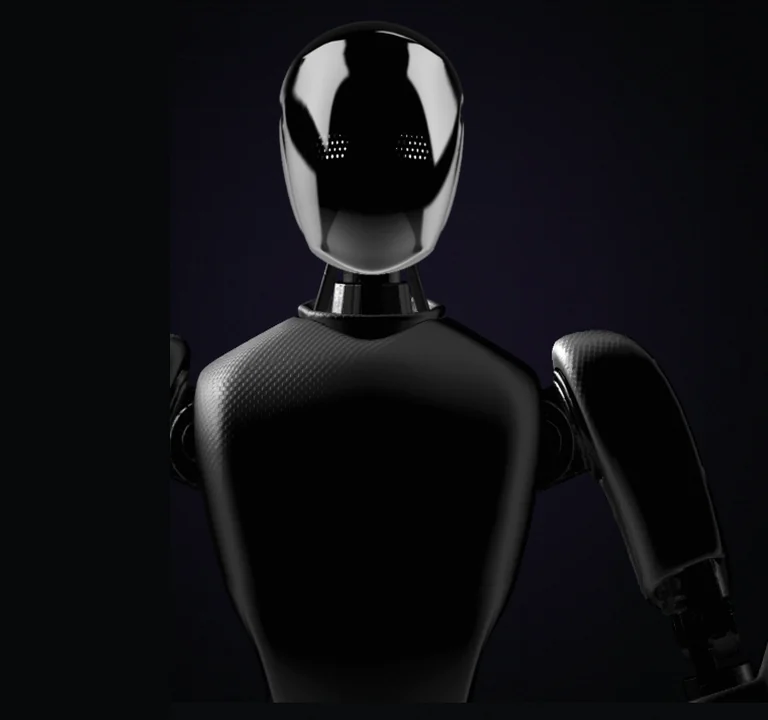
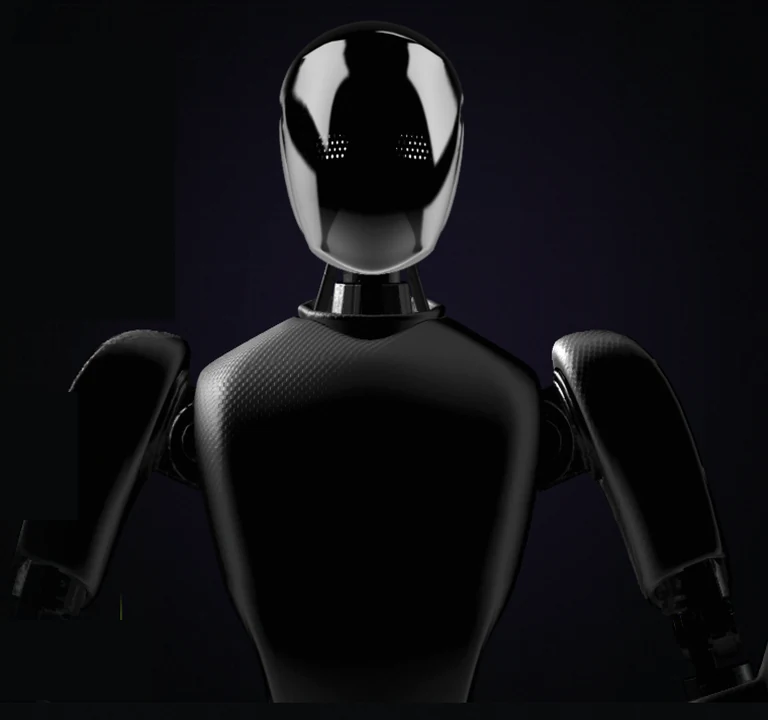
fix(hero): remove frozen poster handoff and preserve arm silhouette

diff --git a/src/three/HeroScene.tsx b/src/three/HeroScene.tsx
@@ -19,7 +19,8 @@ type SplineObjectLike = { uuid: string; name: string; position: Point; rotation:
 
 function getArmObjects(app: Application): SplineObjectLike[] {
   const runtime = app as unknown as { getAllObjects?: () => SplineObjectLike[] };
-  return (runtime.getAllObjects?.() ?? []).filter((object) => /^(arm|elbow|forearm|Hand|Hand LEFT|Hand Instance)$/i.test(object.name));
+  const objects = runtime.getAllObjects?.();
+  return (Array.isArray(objects) ? objects : []).filter((object) => /^(arm|elbow|forearm|Hand|Hand LEFT|Hand Instance)$/i.test(object.name));
 }
 
 function repairArmPose(app: Application, time: number, state: MotionState, baseRotations: Map<string, Euler>, baseTransforms: Map<string, Transform>) {
@@ -144,13 +145,14 @@ export function HeroScene({ listening, speaking, active = true, onReady }: HeroS
     requestAnimationFrame(() => {
       app.setZoom(SPLINE_ZOOM);
       requestAnimationFrame(() => {
-        window.setTimeout(() => {
-          app.setZoom(SPLINE_ZOOM);
-          onReady?.();
-          // Never compete with Spline's asset/renderer initialization.
-          // Mount the secondary WebGL atmosphere after the character is shown.
-          atmosphereTimer.current = window.setTimeout(() => setAtmosphereReady(true), 900);
-        }, 1500);
+        app.setZoom(SPLINE_ZOOM);
+        // Camera/framing is already locked and the arm repair loop is active.
+        // Reveal the live character now; the old 1.5s delay made the static poster
+        // look frozen even after Spline had finished loading.
+        onReady?.();
+        // Never compete with Spline's asset/renderer initialization.
+        // Mount the secondary WebGL atmosphere after the character is shown.
+        atmosphereTimer.current = window.setTimeout(() => setAtmosphereReady(true), 500);
       });
     });
   };

diff --git a/src/index.css b/src/index.css
@@ -214,7 +214,7 @@ body {
 .hero-robot-standin.is-hidden { opacity:0;visibility:hidden; }
 .hero-robot-standin img { display:block;width:100%;height:100%;object-fit:fill;object-position:center;animation:heyrin-standin-idle 4.2s ease-in-out infinite alternate; }
 @keyframes heyrin-standin-idle { from{transform:translateY(0)} to{transform:translateY(-5px)} }
-.hero-signal-loader { position:absolute;inset:0;z-index:3;display:grid;place-items:center;pointer-events:none;opacity:.32;transition:opacity .7s ease; }
+.hero-signal-loader { position:absolute;inset:0;z-index:5;display:grid;place-items:center;pointer-events:none;opacity:.5;transition:opacity .7s ease; }
 .hero-signal-loader.is-hidden { opacity:0;visibility:hidden;transition:opacity .7s ease,visibility 0s .7s; }
 .hero-signal-loader-ring { position:absolute;left:50%;top:49%;border:1px solid rgba(185,255,50,.19);border-radius:50%;transform:translate(-50%,-50%) rotate(-16deg);filter:drop-shadow(0 0 11px rgba(185,255,50,.10)); }
 .hero-signal-loader-ring-a { width:min(77%,620px);height:24%;animation:heyrin-signal-orbit-a 8s ease-in-out infinite alternate; }
